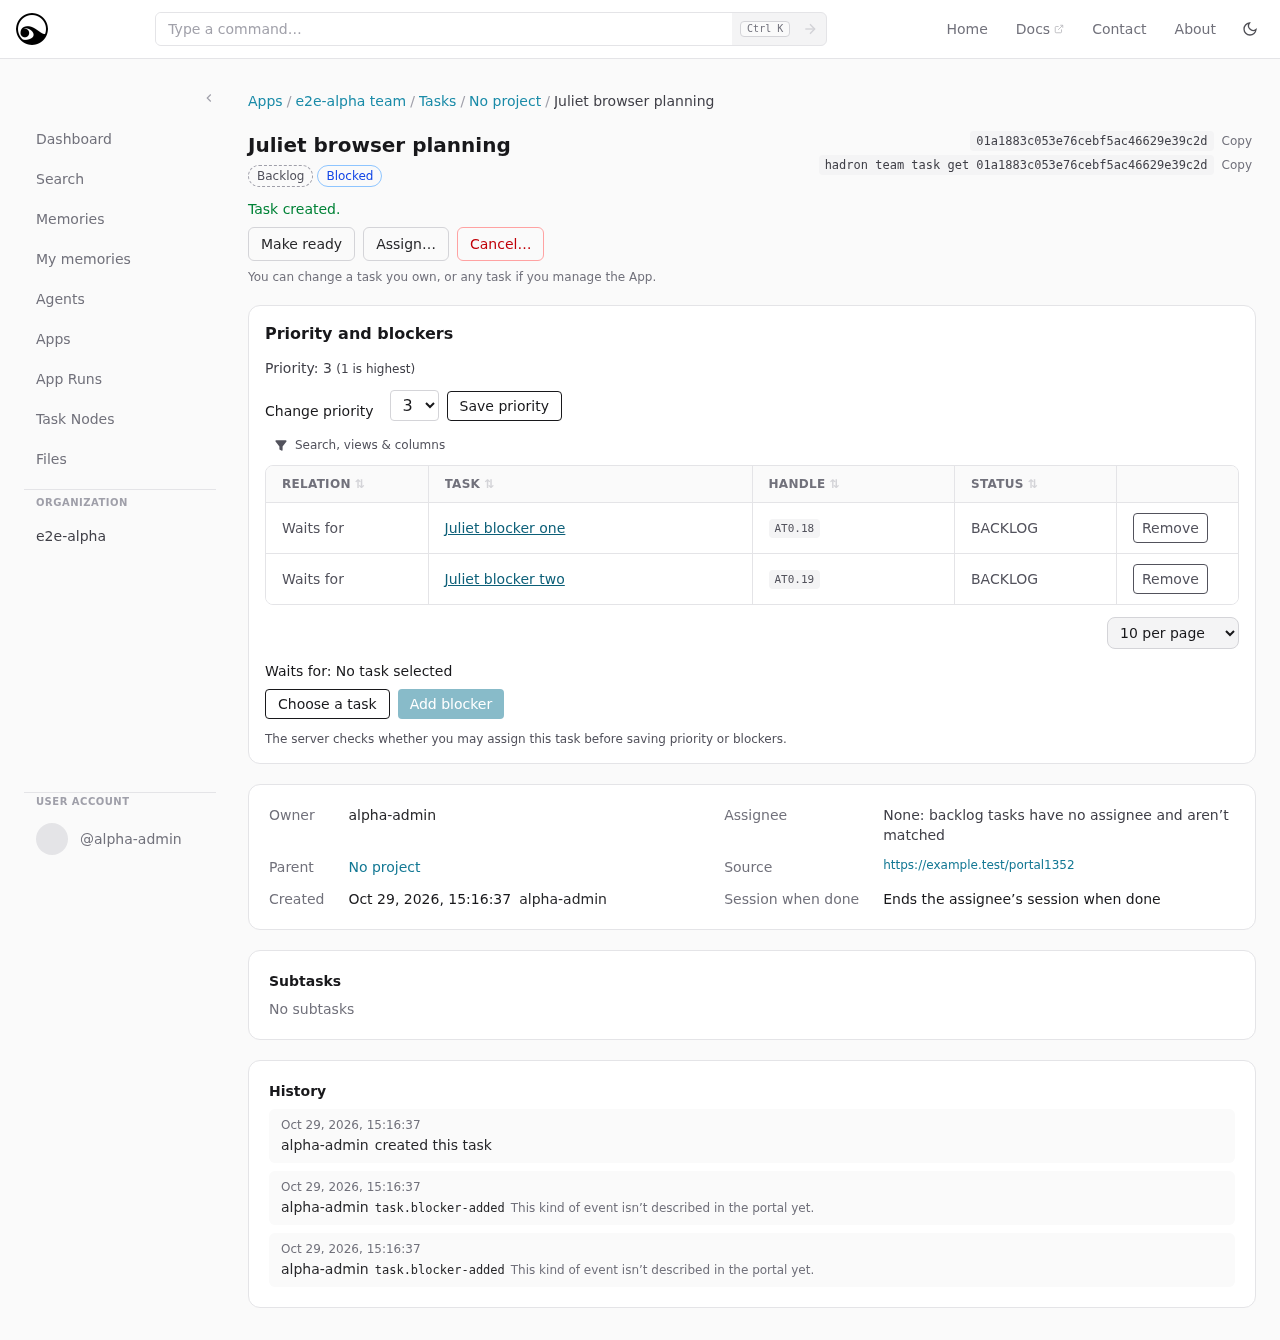
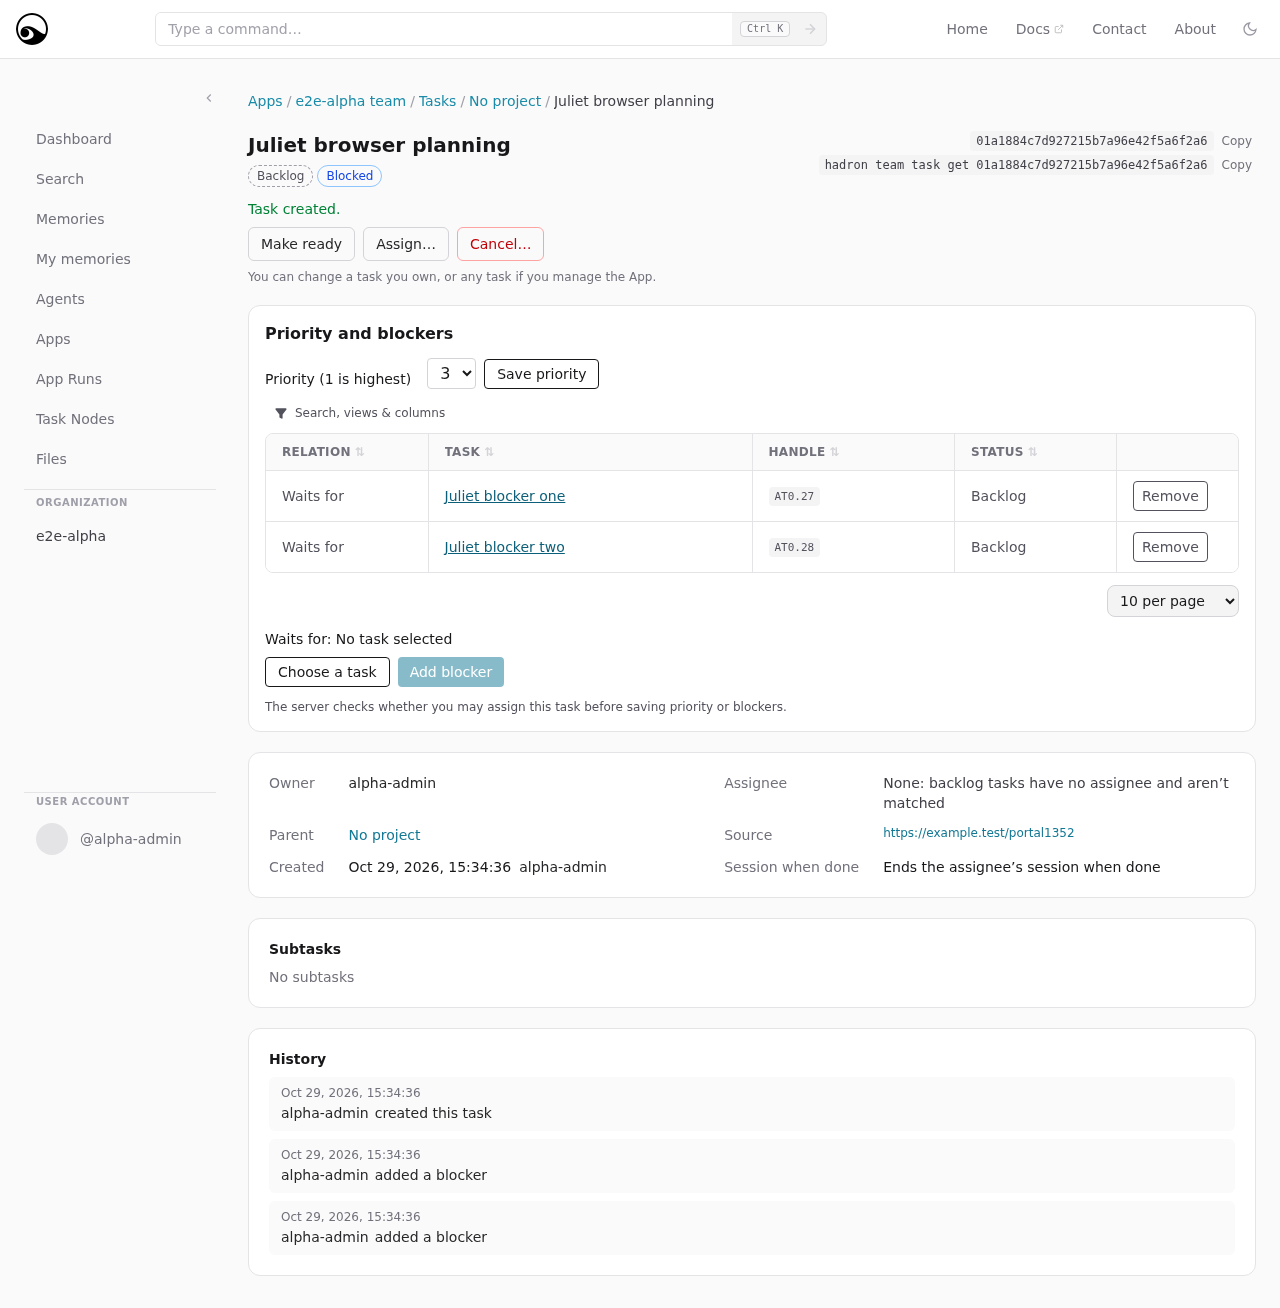
fix: describe planning events and complete task UX evidence
Refs #1352. Address Gaia UX P2: all four owned events have safe plain-language sentences. Also use shared status labels, display editable priority once, and show native refusal, started-state and phone-row evidence. Five event pins red before the fix; full suite 6840 green.

Worker: Juliet (portal-engineer) <hrn:worker:hadronmemory.com:hadron-dev-team:juliet>

diff --git a/src/lib/components/agent-tasks/TaskPlanning.svelte b/src/lib/components/agent-tasks/TaskPlanning.svelte
@@ -1,4 +1,5 @@
 <script lang="ts">
+  import { taskChoiceStatus } from '$lib/agent-tasks/planning';
   import TaskHandle from './TaskHandle.svelte';
   import { onDestroy, untrack } from 'svelte';
   import { enhance } from '$app/forms';
@@ -14,7 +15,7 @@
   import { createSvelteTable } from '$lib/table/createSvelteTable.svelte';
   import type { PortalColumnDef } from '$lib/table/features';
   let { task, appId, canWrite, dependencies = { kind: 'failed' } }: { task: AgentTaskDetail; appId: string; canWrite: boolean; dependencies: TaskRead<{ blockedBy: TaskDependencyPage; blocks: TaskDependencyPage }> } = $props();
-  let priority = $state('');
+  let priority = $state(untrack(() => String(task.priority ?? '')));
   let picker = $state(false);
   let chosen = $state<TaskChoice | null>(null);
   let pending = $state(false);
@@ -45,7 +46,7 @@
     { id: 'direction', accessorFn: (row) => row.direction === 'blockedBy' ? t('app.tasks.waits-for', 'Waits for') : t('app.tasks.holds-up', 'Holds up'), header: t('app.tasks.relation', 'Relation'), size: 120 },
     { accessorKey: 'title', header: t('app.tasks.col.task', 'Task'), size: 240 },
     { accessorKey: 'handle', header: t('app.tasks.col.handle', 'Handle'), size: 150 },
-    { accessorKey: 'status', header: t('app.tasks.col.status', 'Status'), size: 120 },
+    { id: 'status', accessorFn: (row) => taskChoiceStatus(row.status), header: t('app.tasks.col.status', 'Status'), size: 120 },
     { id: 'remove', header: '', enableSorting: false, enableGlobalFilter: false, size: 90 },
   ];
   const table = createSvelteTable<Relation>({ get data() { return rows; }, columns, initialState: { pagination: { pageIndex: 0, pageSize: 10 } } });
@@ -75,12 +76,13 @@
 </script>
 <section class="space-y-3 rounded-xl border border-zinc-200 bg-white p-4 dark:border-zinc-800 dark:bg-zinc-900" aria-labelledby="task-planning">
   <h2 id="task-planning" class="font-semibold text-zinc-900 dark:text-white">{t('app.tasks.planning', 'Priority and blockers')}</h2>
-  <p class="text-sm text-zinc-700 dark:text-zinc-300">{t('app.tasks.priority', 'Priority')}: {task.priority ?? '—'} <span class="text-xs">{t('app.tasks.priority.highest', '(1 is highest)')}</span></p>
   {#if canPriority}
     <form method="POST" action="?/priority" use:enhance={submit} class="flex flex-wrap items-end gap-2">
-      <label for="task-priority" class="text-sm">{t('app.tasks.priority.change', 'Change priority')}</label><select id="task-priority" name="priority" bind:value={priority} disabled={pending} class="ml-2 rounded border border-zinc-300 bg-transparent px-2 py-1 dark:border-zinc-600">{#each [1,2,3,4,5] as value}<option value={String(value)}>{value}</option>{/each}</select>
+      <label for="task-priority" class="text-sm">{t('app.tasks.priority.edit-label', 'Priority (1 is highest)')}</label><select id="task-priority" name="priority" bind:value={priority} disabled={pending} class="ml-2 rounded border border-zinc-300 bg-transparent px-2 py-1 dark:border-zinc-600">{#each [1,2,3,4,5] as value}<option value={String(value)}>{value}</option>{/each}</select>
       <button disabled={pending || !priority} class="rounded border px-3 py-1 text-sm disabled:opacity-50">{t('app.tasks.priority.save', 'Save priority')}</button>
     </form>
+  {:else}
+    <p class="text-sm text-zinc-700 dark:text-zinc-300">{t('app.tasks.priority', 'Priority')}: {task.priority ?? '—'} <span class="text-xs">{t('app.tasks.priority.highest', '(1 is highest)')}</span></p>
   {/if}
   {#if dependencies.kind !== 'ok'}
     <p role="status" class="text-sm">{t('app.tasks.dependencies.unknown', 'Blocker relations are unavailable. Reload to try again.')}</p>

diff --git a/src/lib/agent-tasks/events.ts b/src/lib/agent-tasks/events.ts
@@ -56,6 +56,17 @@ export function eventSentence(
 ): EventSentence {
   const p = e.payload ?? {};
   switch (e.type) {
+    // server#2644 S1: fixed event vocabulary; never recover a blocker identity from payload ids.
+    case 'task.blocker-added':
+      return { known: true, text: t('app.tasks.history.blocker-added', 'added a blocker') };
+    case 'task.blocker-removed':
+      return { known: true, text: t('app.tasks.history.blocker-removed', 'removed a blocker') };
+    case 'task.priority':
+      return { known: true, text: typeof p.priority === 'number' && Number.isInteger(p.priority) && p.priority >= 1 && p.priority <= 5
+        ? t('app.tasks.history.priority', 'set priority to {priority}', { priority: p.priority })
+        : t('app.tasks.history.priority-unknown', 'changed the priority') };
+    case 'task.released':
+      return { known: true, text: t('app.tasks.history.released', 'released this task after its last open blocker ended or was removed') };
     case 'task.created':
       return { known: true, text: t('app.tasks.history.created', 'created this task') };
     case 'task.assigned':

diff --git a/src/lib/components/agent-tasks/SelectTask.svelte b/src/lib/components/agent-tasks/SelectTask.svelte
@@ -1,4 +1,5 @@
 <script lang="ts">
+  import { taskChoiceStatus } from '$lib/agent-tasks/planning';
   import TaskHandle from './TaskHandle.svelte';
   import { untrack } from 'svelte';
   import { focusTrap } from '$lib/a11y/focus-trap';
@@ -22,7 +23,7 @@
   const columns: PortalColumnDef<TaskChoice>[] = [
     { accessorKey: 'title', header: t('app.tasks.col.task', 'Task'), enableHiding: false, size: 240 },
     { accessorKey: 'handle', header: t('app.tasks.col.handle', 'Handle'), size: 150 },
-    { accessorKey: 'status', header: t('app.tasks.col.status', 'Status'), size: 120 },
+    { id: 'status', accessorFn: (row) => taskChoiceStatus(row.status), header: t('app.tasks.col.status', 'Status'), size: 120 },
     { id: 'choose', header: '', enableSorting: false, enableGlobalFilter: false, size: 90 },
   ];
   const shown = $derived(exactDone ? exactItems : items);

diff --git a/src/lib/agent-tasks/planning.ts b/src/lib/agent-tasks/planning.ts
@@ -1,3 +1,5 @@
+import { taskDisplayState, taskStateLabel } from './status';
+import type { AgentTaskRow } from './types';
 import { t } from '$lib/i18n/t';
 
 /** Empty create input deliberately omits the server default: naming it changes authority. */
@@ -6,4 +8,9 @@ export function readTaskPriority(value: FormDataEntryValue | null): number | und
   if (!text) return undefined;
   if (!/^[1-5]$/.test(text)) return { field: 'priority', message: t('app.tasks.priority.invalid', 'Choose a priority from 1 (highest) to 5.') };
   return Number(text);
+}
+
+/** Relations/picker show the task's status, without inferring queued from an absent assignee. */
+export function taskChoiceStatus(status: string): string {
+  return taskStateLabel(taskDisplayState({ status: status as AgentTaskRow['status'], queued: false }), status);
 }

diff --git a/src/lib/agent-tasks/events.test.ts b/src/lib/agent-tasks/events.test.ts
@@ -12,6 +12,11 @@ const ev = (type: string, payload: Record<string, unknown> = {}, subjectWorker: 
 
 describe('eventSentence', () => {
   it.each([
+    ['task.blocker-added', { blockerTaskId: 'concealed' }, null, 'added a blocker'],
+    ['task.blocker-removed', { blockerTaskId: 'concealed' }, null, 'removed a blocker'],
+    ['task.priority', { priority: 3 }, null, 'set priority to 3'],
+    ['task.priority', { priority: 'untrusted' }, null, 'changed the priority'],
+    ['task.released', {}, null, 'released this task after its last open blocker ended or was removed'],
     ['task.created', {}, null, 'created this task'],
     ['task.assigned', {}, dara, 'assigned it to Dara'],
     ['task.reassigned', {}, dara, 'reassigned it to Dara'],

diff --git a/docs/pr-evidence/1352/README.md b/docs/pr-evidence/1352/README.md
@@ -31,3 +31,19 @@ The shared TaskHandle component is copied byte-for-byte from Gaia's portal#1375
 head `6e3dbd42bbe59d137641a58779f4370740a60848` at the same path. No second handle
 renderer or task-search provider is introduced. Fresh-main overlap is checked
 before freeze; merge main, never rebase, if the companion lands first.
+
+## Pre-freeze UX correction evidence
+
+The owned blocker/priority/release events now have plain-language history
+sentences. Relation and picker status cells use the shared status label helper;
+editable priority is shown once, with the highest-first hint in its label.
+
+- [Board marks a blocked task](board-blocked-dark.png).
+- [STARTED task: priority remains, blocker controls absent](started-dark.png).
+- [Native cycle refusal: selected draft retained](cycle-refusal-dark.png).
+- Relations with rows at390px: [light](detail-390-rows-light.png), [dark](detail-390-rows-dark.png).
+- [History after priority edit and last-blocker release](history-after-release-dark.png).
+
+These native author journeys passed with no browser errors. 390px with rows also
+reported no document horizontal overflow. Five history assertions failed before
+the correction and pass afterward; concealed blocker ids are never interpolated.
